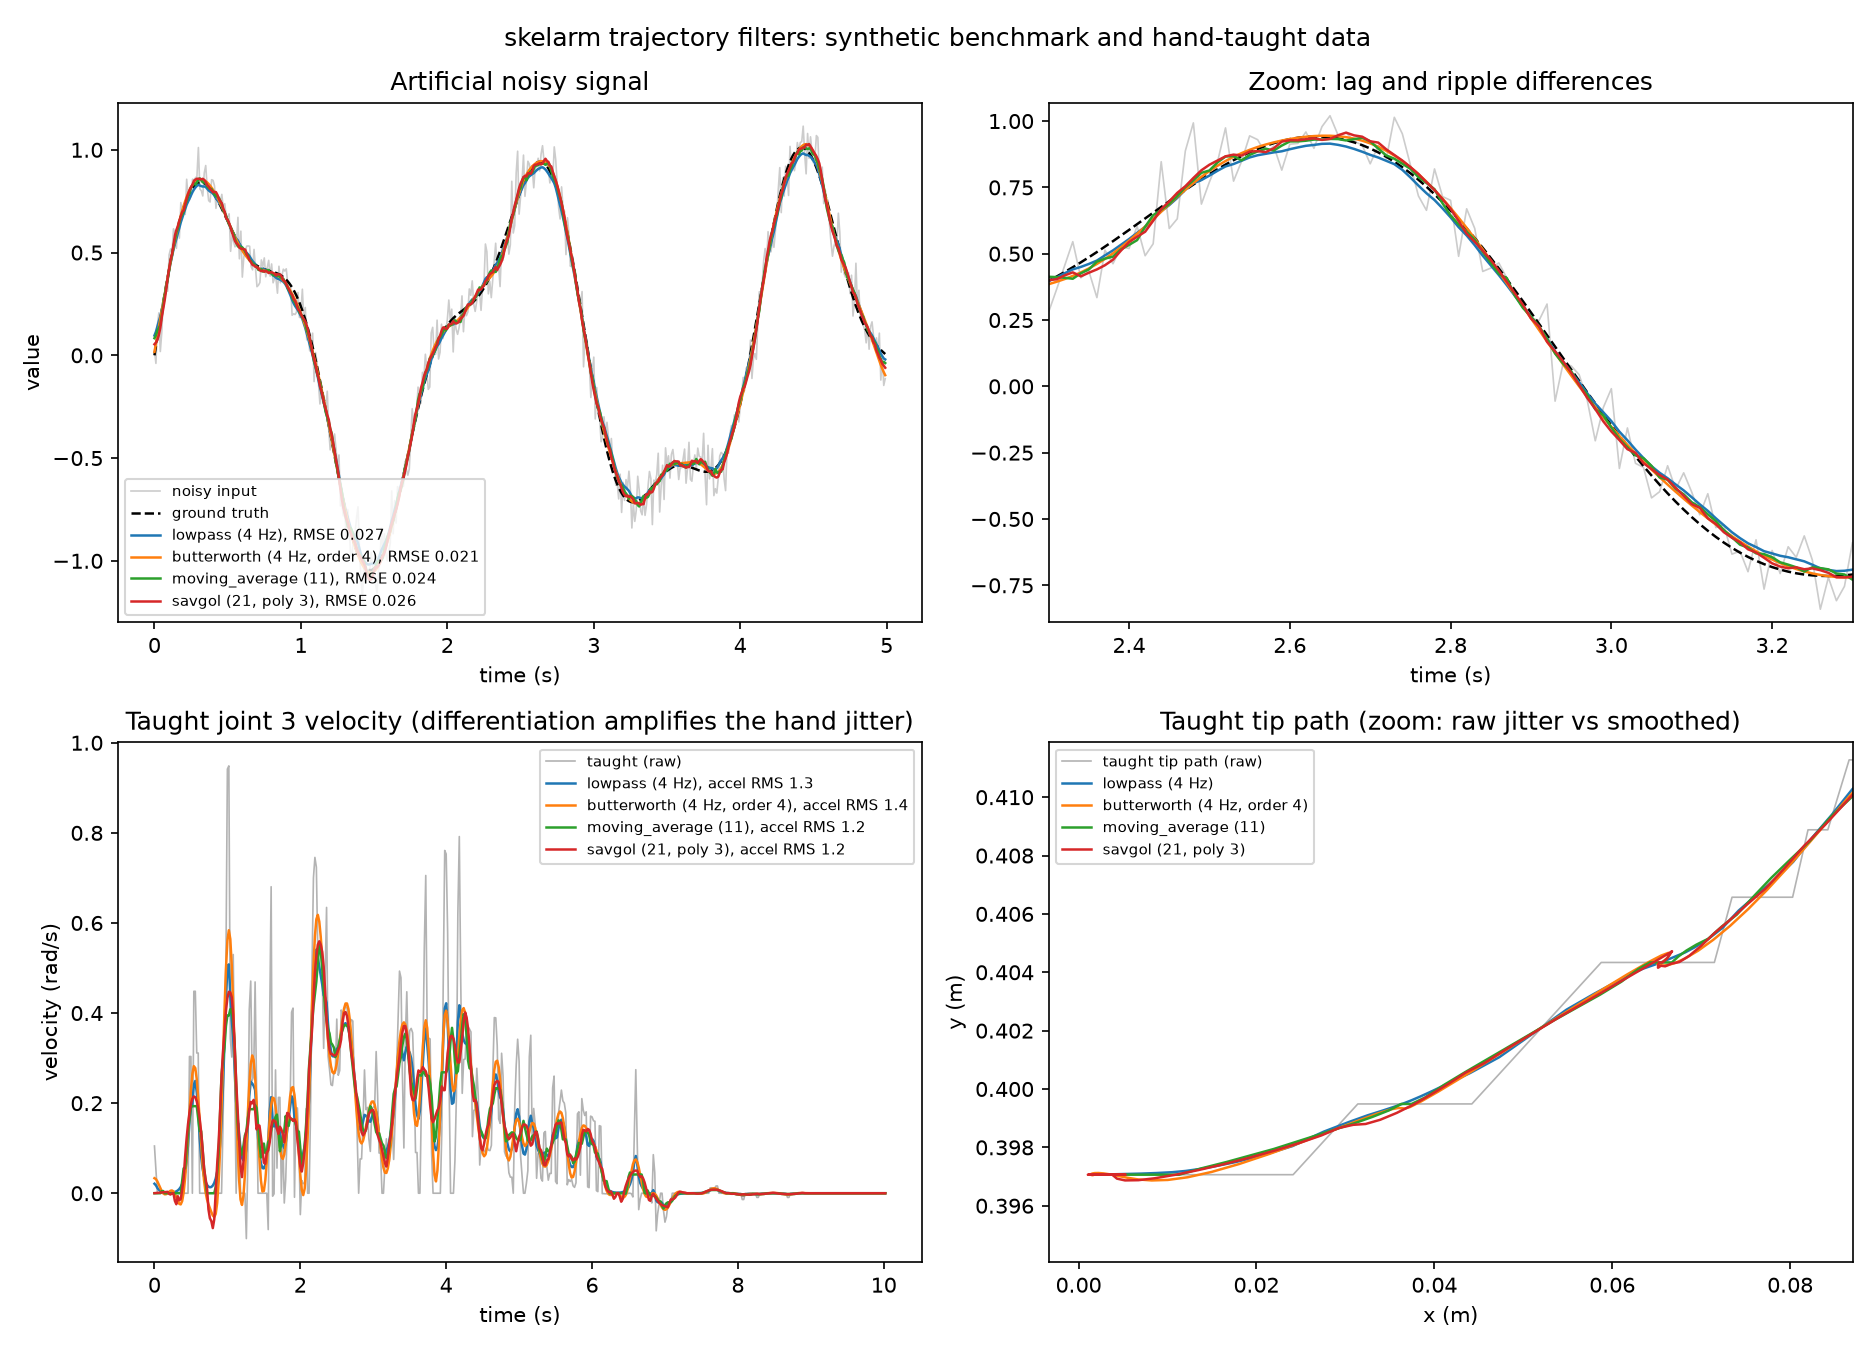
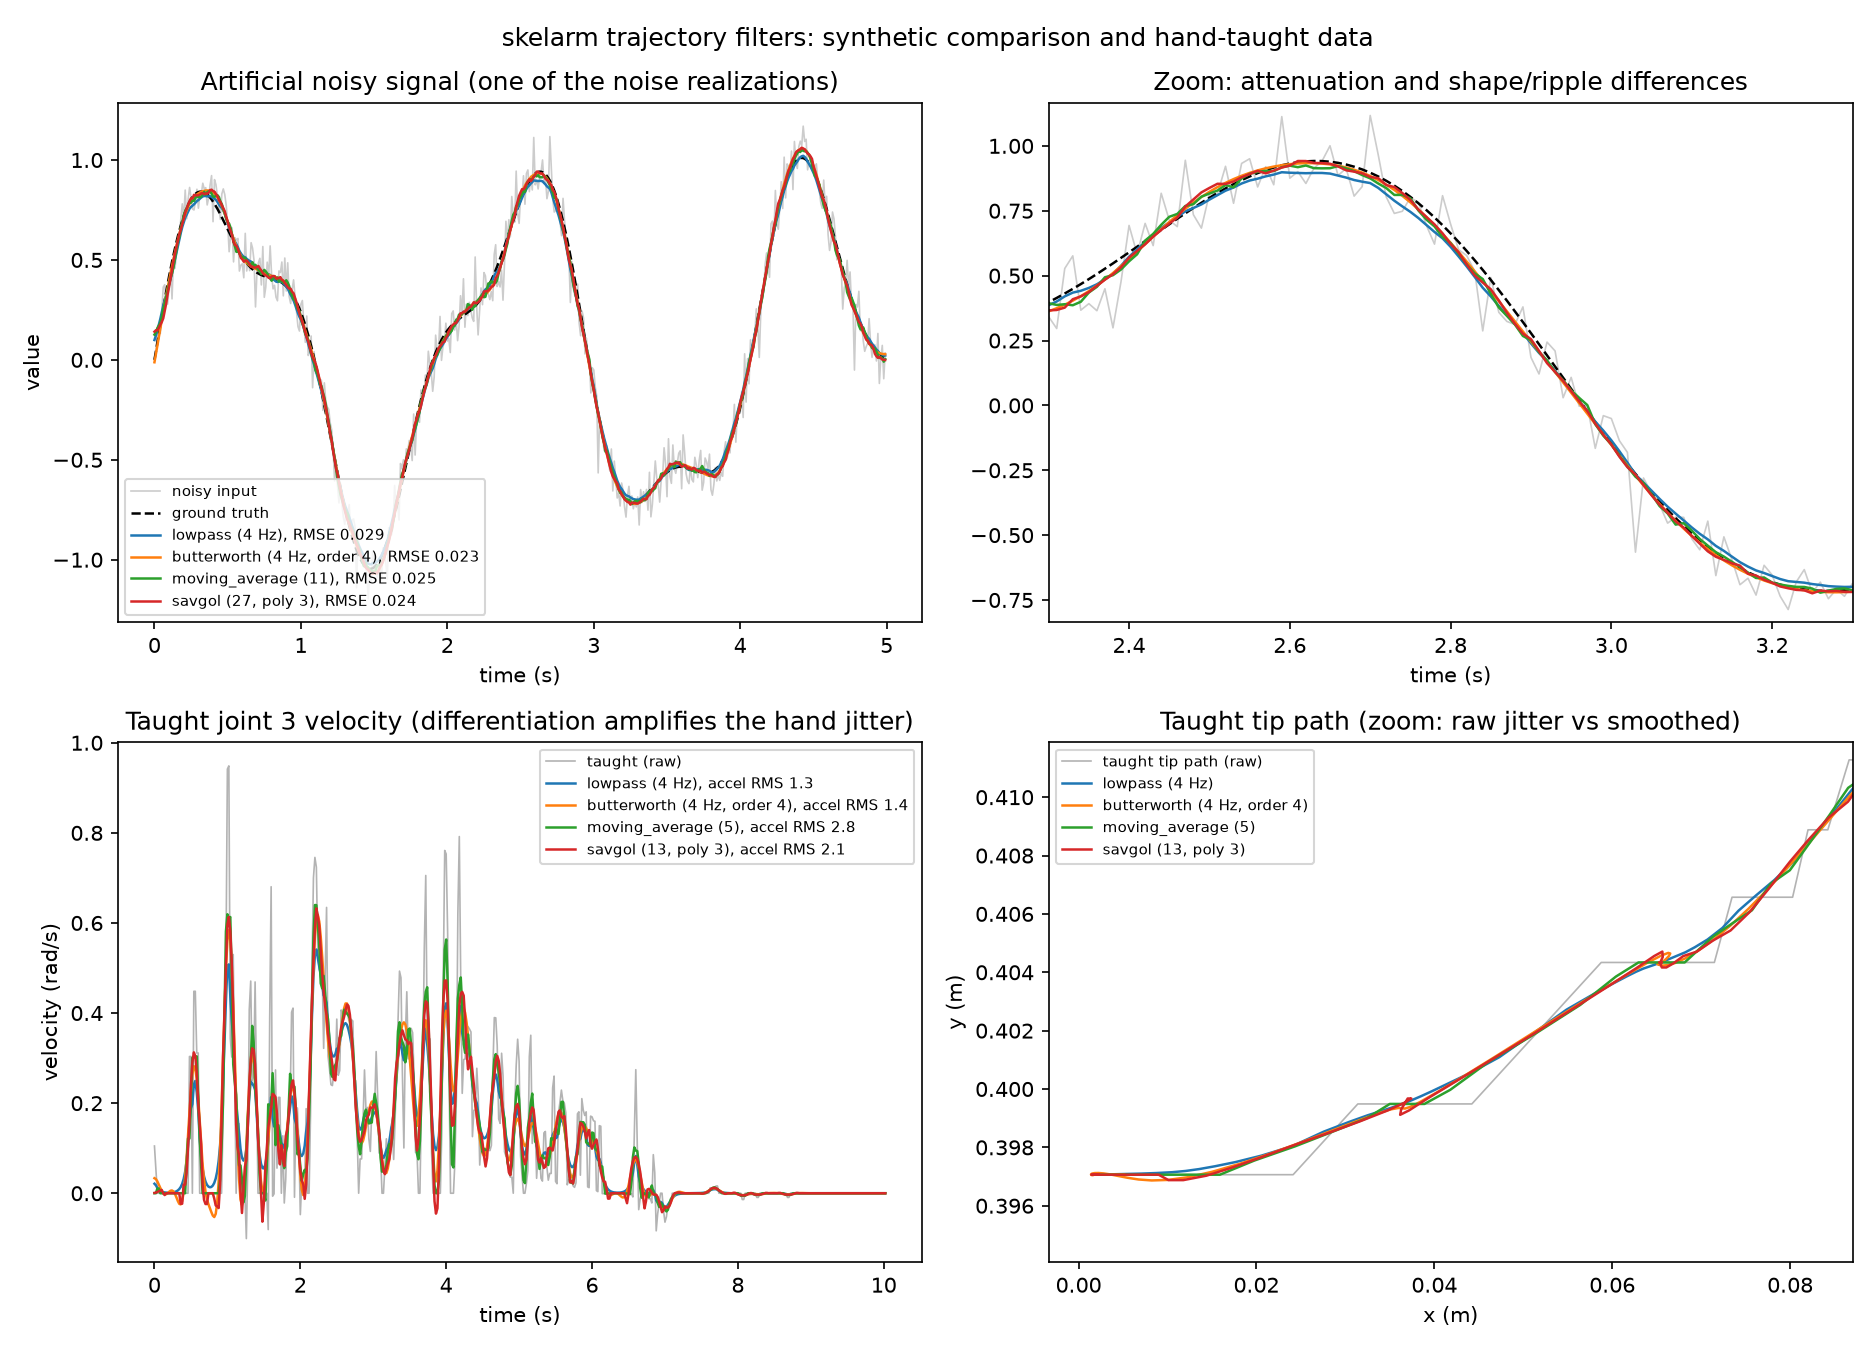
fix: bandwidth-matched, seed-aggregated filter comparison

diff --git a/examples/filtering_demo.py b/examples/filtering_demo.py
@@ -7,13 +7,19 @@ Two demonstrations of every filter in ``skelarm.filtering`` (first-order low-pas
 Butterworth, moving average, Savitzky-Golay — all zero-phase):
 
 1. **Artificial noisy data** — a known smooth reference corrupted by seeded white
-   noise, so each filter's error against the ground truth is measurable (the RMSE
-   is shown in the legend and printed).
+   noise, so each filter's error against the ground truth is measurable; the RMSE
+   is aggregated over several noise seeds (mean shown in the legend, mean +/- std
+   printed).
 2. **A taught trajectory** — the hand-demonstrated recording committed at
-   ``docs/assets/teach.sklog.npz``: the jitteriest joint's velocity over time
+   ``docs/assets/teach.sklog.npz``: the most active joint's velocity over time
    (differentiation amplifies the hand tremor) and a zoomed tip path where the
    raw pointer quantization is visible, with the smoothness gain (RMS
    acceleration reduction) printed per filter.
+
+The window-based filters are specified by a window length in seconds so their
+effective cutoff roughly matches the 4 Hz IIR filters on both datasets despite
+the differing sample rates; the comparison is of representative,
+approximately bandwidth-matched settings, not a strict ranking.
 
 Run from the repository root:
 
@@ -38,14 +44,41 @@ _TEACH_LOG = Path(__file__).resolve().parents[1] / "docs" / "assets" / "teach.sk
 
 _ZOOM_WINDOW = (2.3, 3.3)  # synthetic zoom bounds (s), around one peak and descent
 _TIP_ZOOM_FROM_S = 6.0  # taught tip-path zoom starts at the slow final approach
+_SEEDS = range(10)  # synthetic noise realizations aggregated into the RMSE statistics
 
-# The demonstrated filters: label -> smooth() keyword arguments.
+# The demonstrated filters. Window lengths are given in SECONDS (``window_s``) and
+# converted to an odd sample count per dataset, so every filter keeps a roughly
+# matched ~4 Hz effective cutoff at either sample rate — a fixed sample count
+# would remove twice the bandwidth at 50 Hz that it removes at 100 Hz.
 _FILTERS: dict[str, dict[str, float | int | str]] = {
-    "lowpass (4 Hz)": {"kind": "lowpass", "cutoff_hz": 4.0},
-    "butterworth (4 Hz, order 4)": {"kind": "butterworth", "cutoff_hz": 4.0, "order": 4},
-    "moving_average (11)": {"kind": "moving_average", "window": 11},
-    "savgol (21, poly 3)": {"kind": "savgol", "window": 21, "polyorder": 3},
+    "lowpass": {"kind": "lowpass", "cutoff_hz": 4.0},
+    "butterworth": {"kind": "butterworth", "cutoff_hz": 4.0, "order": 4},
+    "moving_average": {"kind": "moving_average", "window_s": 0.10},
+    "savgol": {"kind": "savgol", "window_s": 0.26, "polyorder": 3},
 }
+
+
+def _resolve(params: dict[str, float | int | str], dt: float) -> tuple[dict[str, float | int | str], str]:
+    """Turn a filter spec into ``smooth()`` keyword arguments and a display label.
+
+    ``window_s`` (seconds) becomes an odd ``window`` (samples) for this dataset's
+    sample period, keeping the effective cutoff sample-rate-independent.
+    """
+    kwargs = dict(params)
+    window_s = kwargs.pop("window_s", None)
+    if window_s is not None:
+        window = round(float(window_s) / dt)
+        kwargs["window"] = window + 1 if window % 2 == 0 else window
+    kind = str(kwargs["kind"])
+    if kind == "lowpass":
+        label = f"lowpass ({kwargs['cutoff_hz']:g} Hz)"
+    elif kind == "butterworth":
+        label = f"butterworth ({kwargs['cutoff_hz']:g} Hz, order {kwargs['order']})"
+    elif kind == "moving_average":
+        label = f"moving_average ({kwargs['window']})"
+    else:
+        label = f"savgol ({kwargs['window']}, poly {kwargs['polyorder']})"
+    return kwargs, label
 
 
 def _rms(values: NDArray[np.float64]) -> float:
@@ -59,32 +92,35 @@ def _acceleration_rms(values: NDArray[np.float64], dt: float) -> float:
 
 
 def _demo_synthetic(ax_full: Axes, ax_zoom: Axes) -> None:
-    """Filter a known signal with seeded noise and report each filter's RMSE."""
+    """Filter a known signal under seeded noise; aggregate the RMSE over noise seeds."""
     dt = 0.01  # 100 Hz
     times = np.arange(0.0, 5.0, dt)
     truth = 0.8 * np.sin(2.0 * np.pi * 0.5 * times) + 0.25 * np.sin(2.0 * np.pi * 1.2 * times)
-    noisy = truth + np.random.default_rng(42).normal(0.0, 0.08, times.shape)
+    realizations = [truth + np.random.default_rng(seed).normal(0.0, 0.08, times.shape) for seed in _SEEDS]
+    shown = realizations[0]  # one realization is plotted; the statistics cover them all
 
-    print("Synthetic signal (RMSE against the ground truth):")
-    print(f"  {'unfiltered':<28} {_rms(noisy - truth):.4f}")
+    print(f"Synthetic signal (RMSE against the ground truth, mean +/- std over {len(realizations)} noise seeds):")
+    raw_rmse = [_rms(noisy - truth) for noisy in realizations]
+    print(f"  {'unfiltered':<28} {np.mean(raw_rmse):.4f} +/- {np.std(raw_rmse):.4f}")
     for ax in (ax_full, ax_zoom):
-        ax.plot(times, noisy, color="0.8", lw=0.8, label="noisy input")
+        ax.plot(times, shown, color="0.8", lw=0.8, label="noisy input")
         ax.plot(times, truth, "k--", lw=1.2, label="ground truth")
-    for label, params in _FILTERS.items():
-        smoothed = smooth(noisy, dt, **params)  # type: ignore[arg-type]
-        rmse = _rms(smoothed - truth)
-        print(f"  {label:<28} {rmse:.4f}")
+    for params in _FILTERS.values():
+        kwargs, label = _resolve(params, dt)
+        rmse = [_rms(smooth(noisy, dt, **kwargs) - truth) for noisy in realizations]  # type: ignore[arg-type]
+        print(f"  {label:<28} {np.mean(rmse):.4f} +/- {np.std(rmse):.4f}")
         for ax in (ax_full, ax_zoom):
-            ax.plot(times, smoothed, lw=1.2, label=f"{label}, RMSE {rmse:.3f}")
+            smoothed = smooth(shown, dt, **kwargs)  # type: ignore[arg-type]
+            ax.plot(times, smoothed, lw=1.2, label=f"{label}, RMSE {np.mean(rmse):.3f}")
 
-    ax_full.set_title("Artificial noisy signal")
+    ax_full.set_title("Artificial noisy signal (one of the noise realizations)")
     ax_full.set_xlabel("time (s)")
     ax_full.set_ylabel("value")
     ax_full.legend(fontsize=7, loc="lower left")
     window = (times >= _ZOOM_WINDOW[0]) & (times <= _ZOOM_WINDOW[1])
     ax_zoom.set_xlim(*_ZOOM_WINDOW)
-    ax_zoom.set_ylim(float(noisy[window].min()) - 0.05, float(noisy[window].max()) + 0.05)
-    ax_zoom.set_title("Zoom: lag and ripple differences")
+    ax_zoom.set_ylim(float(shown[window].min()) - 0.05, float(shown[window].max()) + 0.05)
+    ax_zoom.set_title("Zoom: attenuation and shape/ripple differences")
     ax_zoom.set_xlabel("time (s)")
 
 
@@ -95,14 +131,15 @@ def _demo_taught(ax_joint: Axes, ax_tip: Axes) -> None:
     dt = float(np.mean(np.diff(times)))
     q = log.channel("q")
     tip = log.channel("tip")
-    joint = int(np.argmax(np.ptp(q, axis=0)))  # the joint the demonstration moved most
+    joint = int(np.argmax(np.ptp(q, axis=0)))  # the most active joint (largest angle range)
     raw = q[:, joint]
 
     print(f"\nTaught trajectory {_TEACH_LOG.name} (joint {joint + 1}, {len(times)} samples at {1 / dt:.0f} Hz):")
     print(f"  {'unfiltered':<28} accel RMS {_acceleration_rms(raw, dt):8.2f} rad/s^2")
     ax_joint.plot(times, np.gradient(raw, dt), color="0.7", lw=0.8, label="taught (raw)")
-    for label, params in _FILTERS.items():
-        smoothed = smooth(raw, dt, **params)  # type: ignore[arg-type]
+    for params in _FILTERS.values():
+        kwargs, label = _resolve(params, dt)
+        smoothed = smooth(raw, dt, **kwargs)  # type: ignore[arg-type]
         accel = _acceleration_rms(smoothed, dt)
         deviation = _rms(smoothed - raw)
         print(f"  {label:<28} accel RMS {accel:8.2f} rad/s^2, deviation RMS {deviation:.4f} rad")
@@ -114,8 +151,9 @@ def _demo_taught(ax_joint: Axes, ax_tip: Axes) -> None:
     ax_joint.legend(fontsize=7, loc="best")
 
     ax_tip.plot(tip[:, 0], tip[:, 1], color="0.7", lw=0.8, label="taught tip path (raw)")
-    for label, params in _FILTERS.items():
-        smoothed_tip = smooth(tip, dt, **params)  # type: ignore[arg-type]
+    for params in _FILTERS.values():
+        kwargs, label = _resolve(params, dt)
+        smoothed_tip = smooth(tip, dt, **kwargs)  # type: ignore[arg-type]
         ax_tip.plot(smoothed_tip[:, 0], smoothed_tip[:, 1], lw=1.2, label=label)
     # Zoom to the slow final approach, where the millimeter-scale hand jitter is visible.
     segment = tip[times >= _TIP_ZOOM_FROM_S]
@@ -132,7 +170,7 @@ def main() -> None:
     fig, axes = plt.subplots(2, 2, figsize=(12.5, 9))
     _demo_synthetic(axes[0, 0], axes[0, 1])
     _demo_taught(axes[1, 0], axes[1, 1])
-    fig.suptitle("skelarm trajectory filters: synthetic benchmark and hand-taught data")
+    fig.suptitle("skelarm trajectory filters: synthetic comparison and hand-taught data")
     fig.tight_layout()
     plt.show()
 

diff --git a/docs/reference/09_trajectory_filtering.md b/docs/reference/09_trajectory_filtering.md
@@ -121,21 +121,27 @@ initial conditions and the signal is reflected at the boundaries, so a constant
 
 ### The four filters compared
 
-`examples/filtering_demo.py` benchmarks all four kinds on a synthetic signal with
-seeded noise (RMSE against the known ground truth) and on the hand-taught
-recording shipped in `docs/assets/teach.sklog.npz`, where differentiation makes
-the raw hand tremor obvious and every filter cuts the acceleration RMS roughly
-tenfold while deviating less than a few milliradians from the demonstration:
+`examples/filtering_demo.py` compares all four kinds at representative,
+approximately bandwidth-matched settings (the window filters are specified by a
+window length in seconds, so their effective cutoff stays near the IIR filters'
+4 Hz at either sample rate). On a synthetic signal it reports the RMSE against
+the known ground truth as a mean over ten noise seeds; on the hand-taught
+recording shipped in `docs/assets/teach.sklog.npz` — where differentiation makes
+the raw hand tremor obvious — the filters cut the acceleration RMS four- to
+nine-fold while deviating only 2.0–3.1 mrad RMS from the demonstration:
 
 ```bash
 uv run python examples/filtering_demo.py
 ```
 
-![Filter comparison: synthetic RMSE benchmark (top) and the hand-taught trajectory's velocity and zoomed tip path (bottom)](../assets/filtering_demo.png)
+![Filter comparison: synthetic noisy-signal comparison (top) and the hand-taught trajectory's velocity and zoomed tip path (bottom)](../assets/filtering_demo.png)
 
 The zoom panels show the characteristic trade-offs: the first-order low-pass
-rounds peaks the most, the Butterworth tracks tightest for a given cutoff, and
-Savitzky–Golay preserves curvature best at the cost of a little residual ripple.
+attenuates the peak the most for its nominal cutoff, the Butterworth tracks the
+reference tightest, and Savitzky–Golay preserves curvature well at the cost of a
+little residual ripple. This is a qualitative comparison of sensible defaults,
+not a strict ranking — the right choice depends on the reference's frequency
+content and how much smoothing the task tolerates.
 
 ## 3. How `skelarm` uses them
 
